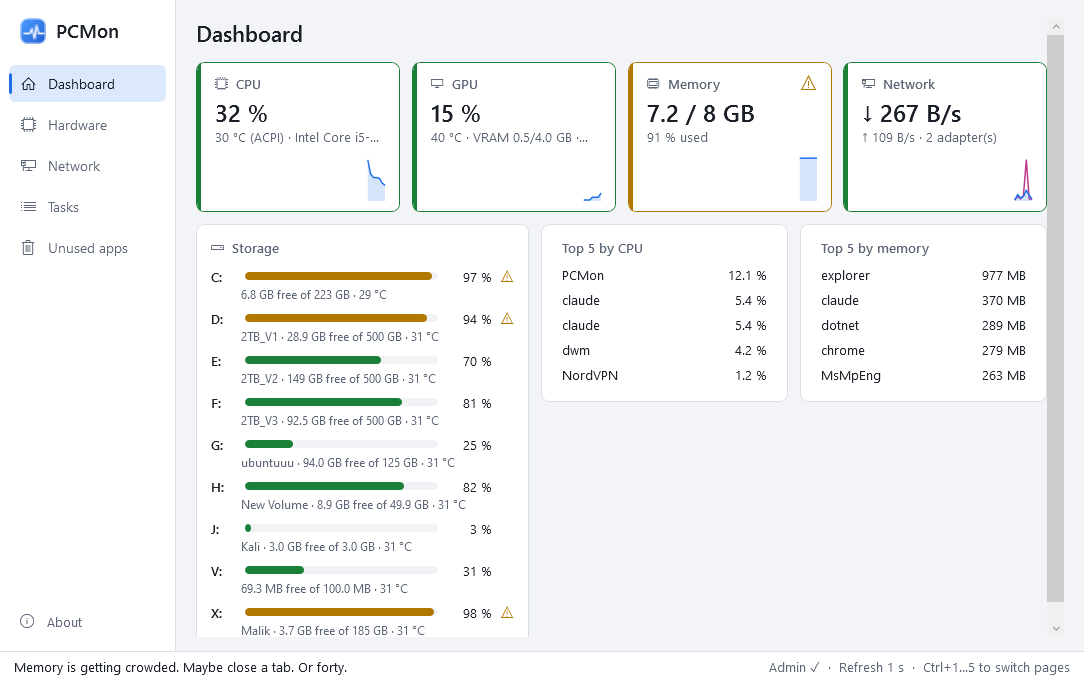
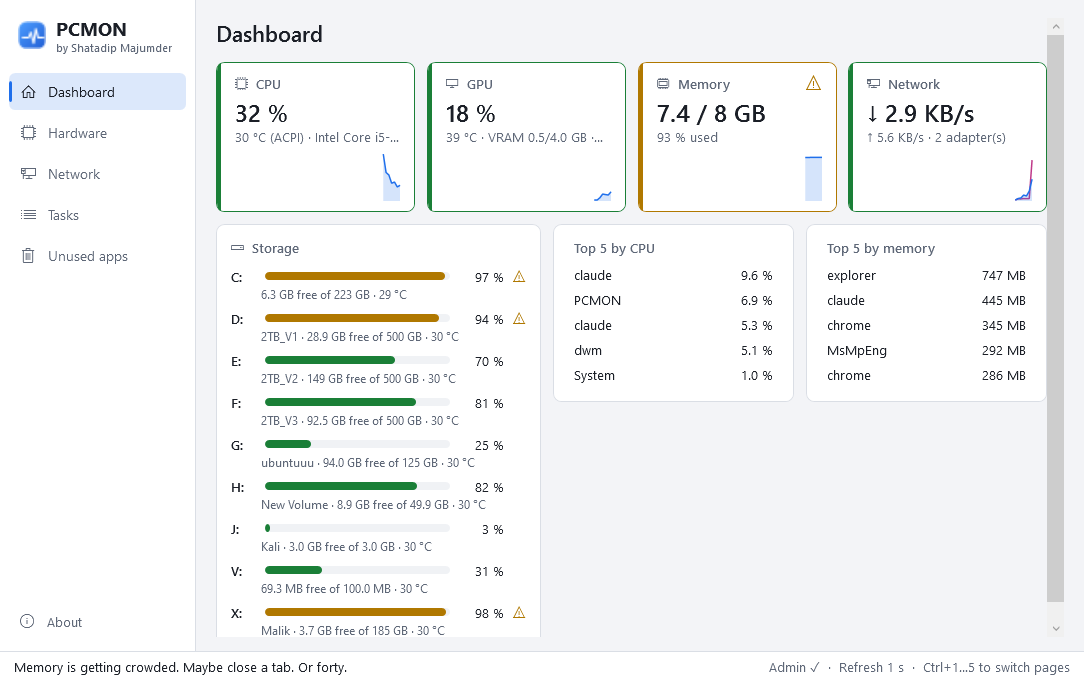
Rebrand to "PCMON by Shatadip Majumder" (v1.0.2)
- Window title, sidebar logo with byline, About box and dialog titles
- Exe renamed to PCMON.exe; file description "PCMON by Shatadip Majumder"
- README, SRS, CI workflow and screenshots updated
- Code namespaces, repo name and %LOCALAPPDATA%\PCMon settings folder unchanged

diff --git a/src/PCMon/MainWindow.xaml b/src/PCMon/MainWindow.xaml
@@ -3,7 +3,8 @@
         xmlns:x="http://schemas.microsoft.com/winfx/2006/xaml"
         xmlns:vm="clr-namespace:PCMon.ViewModels"
         xmlns:v="clr-namespace:PCMon.Views"
-        Title="PCMon" Icon="Assets/pcmon.ico"
+        xmlns:core="clr-namespace:PCMon.Core"
+        Title="{x:Static core:Strings.Brand}" Icon="Assets/pcmon.ico"
         Width="1100" Height="720" MinWidth="900" MinHeight="600"
         WindowStartupLocation="CenterScreen"
         Background="{DynamicResource BgBrush}" Foreground="{DynamicResource TextBrush}"
@@ -39,12 +40,17 @@
         </Border>
 
         <!-- Nav rail -->
-        <Border DockPanel.Dock="Left" Width="176" Background="{DynamicResource SurfaceBrush}"
+        <Border DockPanel.Dock="Left" Width="196" Background="{DynamicResource SurfaceBrush}"
                 BorderBrush="{DynamicResource LineBrush}" BorderThickness="0,0,1,0">
             <DockPanel>
-                <StackPanel DockPanel.Dock="Top" Orientation="Horizontal" Margin="20,18,0,18">
-                    <Image Source="Assets/pcmon.ico" Width="26" Height="26" />
-                    <TextBlock Text="PCMon" FontSize="19" FontWeight="SemiBold" Margin="10,0,0,0" VerticalAlignment="Center" />
+                <StackPanel DockPanel.Dock="Top" Orientation="Horizontal" Margin="18,16,0,16"
+                            AutomationProperties.Name="{x:Static core:Strings.Brand}">
+                    <Image Source="Assets/pcmon.ico" Width="28" Height="28" VerticalAlignment="Center" />
+                    <StackPanel Margin="10,0,0,0" VerticalAlignment="Center">
+                        <TextBlock Text="{x:Static core:Strings.AppName}" FontSize="19" FontWeight="Bold" />
+                        <TextBlock Text="{Binding Source={x:Static core:Strings.Author}, StringFormat=by {0}}"
+                                   FontSize="11" Foreground="{DynamicResource DimBrush}" />
+                    </StackPanel>
                 </StackPanel>
 
                 <Button DockPanel.Dock="Bottom" Command="{Binding AboutCommand}" Style="{StaticResource RowButton}"

diff --git a/src/PCMon/Views/TasksView.xaml b/src/PCMon/Views/TasksView.xaml
@@ -51,7 +51,7 @@
                             <DataGridTemplateColumn.CellTemplate>
                                 <DataTemplate>
                                     <TextBlock Text="&#xE72E;" Style="{StaticResource Glyph}" Foreground="{DynamicResource DimBrush}"
-                                               ToolTip="Critical system process: PCMon won't end it"
+                                               ToolTip="Critical system process: PCMON won't end it"
                                                Visibility="{Binding IsCritical, Converter={StaticResource BoolToVisibility}}" />
                                 </DataTemplate>
                             </DataGridTemplateColumn.CellTemplate>

diff --git a/src/PCMon/Core/Strings.cs b/src/PCMon/Core/Strings.cs
@@ -6,6 +6,10 @@ namespace PCMon.Core;
 /// </summary>
 public static class Strings
 {
+    public const string AppName = "PCMON";
+    public const string Author = "Shatadip Majumder";
+    public const string Brand = AppName + " by " + Author;
+
     public const string AllGreen = "All systems nominal. Suspiciously nominal.";
     // WPF can't draw colour emoji (newer ones render as boxes), so in-app strings stay emoji-free.
     public const string CpuHot = "CPU is hotter than your takes. Check cooling.";
@@ -39,12 +43,12 @@ public static class Strings
     public const string UnknownUsage = @"Unknown ¯\_(ツ)_/¯";
 
     public const string About =
-        "PCMon v{0}\n\nMade with C#, coffee, and mild thermal anxiety.\n\n" +
+        AppName + " v{0}\nby " + Author + "\n\nMade with C#, coffee, and mild thermal anxiety.\n\n" +
         "Sensors by LibreHardwareMonitor (MPL-2.0).\nhttps://github.com/shatadip/PCMon";
 
     public const string CpuSensorsNeedDriver =
         "CPU temperature, clock and power sensors are unavailable. LibreHardwareMonitor needs the free " +
-        "PawnIO driver (pawnio.eu) to read them. PCMon doesn't install drivers, so it falls back to the " +
+        "PawnIO driver (pawnio.eu) to read them. " + AppName + " doesn't install drivers, so it falls back to the " +
         "ACPI thermal zone where it can.";
 }
 

diff --git a/src/PCMon/ViewModels/PageViewModel.cs b/src/PCMon/ViewModels/PageViewModel.cs
@@ -42,9 +42,9 @@ static class Dialogs
     public static bool Confirm(string message, string title) =>
         Show(message, title, MessageBoxButton.YesNo, MessageBoxImage.Warning) == MessageBoxResult.Yes;
 
-    public static void Info(string message, string title = "PCMon") =>
+    public static void Info(string message, string title = Core.Strings.AppName) =>
         Show(message, title, MessageBoxButton.OK, MessageBoxImage.Information);
 
-    public static void Error(string message, string title = "PCMon") =>
+    public static void Error(string message, string title = Core.Strings.AppName) =>
         Show(message, title, MessageBoxButton.OK, MessageBoxImage.Error);
 }

diff --git a/src/PCMon/ViewModels/MainViewModel.cs b/src/PCMon/ViewModels/MainViewModel.cs
@@ -27,7 +27,7 @@ public sealed class MainViewModel : ObservableObject, IDisposable
         Dashboard.IsActive = true;
 
         AboutCommand = new RelayCommand(() =>
-            Dialogs.Info(string.Format(Strings.About, Version), "About PCMon"));
+            Dialogs.Info(string.Format(Strings.About, Version), "About " + Strings.AppName));
         GoToPageCommand = new RelayCommand<string>(i =>
         {
             if (int.TryParse(i, out var n) && n >= 1 && n <= Pages.Count) CurrentPage = Pages[n - 1];

diff --git a/tests/PCMon.Tests/CoreTests.cs b/tests/PCMon.Tests/CoreTests.cs
@@ -354,6 +354,14 @@ public class StringsTests
     }
 
     [Fact]
+    public void Branding()
+    {
+        Assert.Equal("PCMON by Shatadip Majumder", Strings.Brand);
+        var about = string.Format(Strings.About, "1.0.1");
+        Assert.StartsWith("PCMON v1.0.1\nby Shatadip Majumder", about);
+    }
+
+    [Fact]
     public void InAppStringsAvoidEmojiWpfCannotDraw()
     {
         var all = typeof(Strings).GetFields().Where(f => f.IsLiteral).Select(f => (string)f.GetRawConstantValue()!);

diff --git a/SRS.md b/SRS.md
@@ -1,13 +1,15 @@
-# PCMon — Software Requirements Specification (v1.0)
+# PCMON — Software Requirements Specification (v1.0)
+
+*PCMON by Shatadip Majumder.* Show this byline in the window title, under the sidebar logo, in the About box and in the exe's file description.
 
 > **How to use this doc:** Paste the whole file into your coding agent and say *"Build this."*
 > Every requirement is written as an instruction. **MUST** = required for v1. **SHOULD** = add it if it's cheap.
 
 ---
 
-## 1. What PCMon is
+## 1. What PCMON is
 
-PCMon is a **single portable `.exe`** for Windows 10/11 that puts everything on one dashboard:
+PCMON is a **single portable `.exe`** for Windows 10/11 that puts everything on one dashboard:
 
 - **Hardware**: temperatures, loads, clocks, fans and voltages, like HWMonitor
 - **Network**: live upload and download speed, plus who is connected to what
@@ -28,7 +30,7 @@ There is no installer, no setup wizard, no services, no telemetry and no "Would 
 | Charts | `LiveChartsCore.SkiaSharpView.WPF` (or a hand-drawn `Polyline` sparkline if lighter) |
 | Packaging | One self-contained file, see §7 |
 | Privileges | App manifest `requireAdministrator`, because sensors and Prefetch need it |
-| CPU sensor driver | LHM ≥ 0.9.5 reads CPU temps, clocks and power through the **PawnIO** driver. PCMon never installs it. Without it, PCMon shows a banner and falls back to the ACPI thermal zone (WMI) |
+| CPU sensor driver | LHM ≥ 0.9.5 reads CPU temps, clocks and power through the **PawnIO** driver. PCMON never installs it. Without it, PCMON shows a banner and falls back to the ACPI thermal zone (WMI) |
 
 ## 3. UI layout
 
@@ -79,13 +81,13 @@ One resizable window (default 1100×720, min 900×600). It has a left nav rail w
 
   Show Name, Publisher, Size, Installed On and Last Used.
 - **FR-17 MUST**: By default show only apps unused for **≥ 90 days**. Filter chips offer 30 / 60 / 90 / 180 days and "Show all", and a checkbox hides apps with unknown usage.
-- **FR-18 MUST**: Each row has a checkbox, and there is a **"Uninstall selected"** button. PCMon runs each app's **own** `UninstallString`, one at a time, and waits for each to exit. It never deletes files or registry keys itself and never does silent mass uninstalls.
+- **FR-18 MUST**: Each row has a checkbox, and there is a **"Uninstall selected"** button. PCMON runs each app's **own** `UninstallString`, one at a time, and waits for each to exit. It never deletes files or registry keys itself and never does silent mass uninstalls.
 - **FR-19 MUST**: Always show the confirmation dialog first, listing the selected apps. After the uninstallers finish, refresh the list.
 
 ## 5. Non-functional requirements
 - **NFR-1 Footprint**: Idle CPU use is ≤ 2 % on a 4-core machine at a 1 s refresh. RAM use is ≤ 200 MB. Cold start is ≤ 3 s.
-- **NFR-2 Portable**: No installer and no services. The only file PCMon writes is `%LOCALAPPDATA%\PCMon\settings.json`, which stores window size, theme and the unused-days threshold. Deleting the exe removes the app.
-- **NFR-3 Privacy**: PCMon makes **zero** outbound network calls. No telemetry, no update checks and no "anonymous usage data".
+- **NFR-2 Portable**: No installer and no services. The only file PCMON writes is `%LOCALAPPDATA%\PCMon\settings.json`, which stores window size, theme and the unused-days threshold. Deleting the exe removes the app.
+- **NFR-3 Privacy**: PCMON makes **zero** outbound network calls. No telemetry, no update checks and no "anonymous usage data".
 - **NFR-4 Robustness**: Wrap every sensor, WMI and registry read in try/catch. Log errors to `%LOCALAPPDATA%\PCMon\pcmon.log`, rolling at 1 MB. The UI never shows a raw exception.
 - **NFR-5 Compatibility**: Windows 10 22H2+ and Windows 11, x64. It must run on machines without a dedicated GPU, in which case the GPU tile shows "Integrated / N/A".
 - **NFR-6 Accessibility**: The app is fully keyboard navigable, and colour is never the only signal. Every amber or red tile also shows an icon.
@@ -115,10 +117,10 @@ Elsewhere in the app:
 | No unused apps | "No unused apps found. You use everything? Respect." |
 | Uninstall confirm | "Uninstall {n} app(s)? They won't be missed. Probably." |
 | Sensor unavailable | "This sensor is shy." (shown as a tooltip on `—`) |
-| About box | "PCMon v1.0 — Made with C#, coffee, and mild thermal anxiety." |
+| About box | "PCMON v1.0 by Shatadip Majumder — Made with C#, coffee, and mild thermal anxiety." |
 
 ## 7. Build and deliverable
-- **MUST** produce exactly **one file**: `PCMon.exe`. It is self-contained, so the user needs no .NET install.
+- **MUST** produce exactly **one file**: `PCMON.exe`. It is self-contained, so the user needs no .NET install.
   ```
   dotnet publish src/PCMon -c Release -r win-x64 --self-contained true ^
     -p:PublishSingleFile=true -p:IncludeNativeLibrariesForSelfExtract=true ^
@@ -127,18 +129,18 @@ Elsewhere in the app:
   (No trimming. WPF doesn't support it.)
 - **MUST** embed an app icon, a version number and a `requireAdministrator` manifest.
 - **MUST** use this repo layout: `src/PCMon/` (app) and `README.md`, which has a screenshot, a download link and a "Why does it need admin?" section.
-- **SHOULD** add a GitHub Actions workflow that builds `PCMon.exe` when a `v*` tag is pushed and attaches it to a GitHub Release.
+- **SHOULD** add a GitHub Actions workflow that builds `PCMON.exe` when a `v*` tag is pushed and attaches it to a GitHub Release.
 
 ## 8. Out of scope (v1)
-Installer or MSI, auto-update, fan control or overclocking, starting and stopping services, per-process bandwidth, alerts and notifications, CSV export, and a tray icon. *PCMon watches. It does not tinker.*
+Installer or MSI, auto-update, fan control or overclocking, starting and stopping services, per-process bandwidth, alerts and notifications, CSV export, and a tray icon. *PCMON watches. It does not tinker.*
 
 ## 9. Acceptance checklist
-- [ ] Double-click `PCMon.exe` on a clean Win 11 VM. After the UAC prompt, the dashboard loads in ≤ 3 s.
+- [ ] Double-click `PCMON.exe` on a clean Win 11 VM. After the UAC prompt, the dashboard loads in ≤ 3 s.
 - [ ] CPU temp, load and fan values match HWMonitor within ±2 units.
 - [ ] Downloading a large file shows ↓ speed within ±10 % of Task Manager.
 - [ ] A frozen app shows **Not Responding**, and End Task closes it after confirmation.
 - [ ] Trying to kill `lsass` is blocked with the joke message.
 - [ ] Scheduled Tasks shows the correct Running / Ready / Disabled state.
 - [ ] Unused Apps lists an app unopened for 90+ days. Uninstall launches that app's own uninstaller, and the list refreshes afterwards.
-- [ ] Wireshark shows no outbound traffic from PCMon.
+- [ ] Wireshark shows no outbound traffic from PCMON.
 - [ ] Deleting the exe and the `%LOCALAPPDATA%\PCMon` folder leaves no trace.

diff --git a/README.md b/README.md
@@ -1,8 +1,10 @@
-# PCMon 🖥🩺
+# PCMON 🖥🩺
+
+*by Shatadip Majumder*
 
 **Your PC's vital signs, minus the hospital bill.**
 
-PCMon is a small, portable Windows dashboard. It shows:
+PCMON is a small, portable Windows dashboard. It shows:
 
 - hardware sensors (like HWMonitor)
 - live network speed and connections
@@ -15,7 +17,7 @@ There's one `.exe` and no installer. Double-click it and it runs.
 
 ## Download
 
-Get **`PCMon.exe`** from the [latest release](https://github.com/shatadip/PCMon/releases/latest). It runs on Windows 10 22H2+ and Windows 11, x64. It's self-contained, so you don't need to install .NET.
+Get **`PCMON.exe`** from the [latest release](https://github.com/shatadip/PCMon/releases/latest). It runs on Windows 10 22H2+ and Windows 11, x64. It's self-contained, so you don't need to install .NET.
 
 Windows will ask for admin rights when it starts (see [Why does it need admin?](#why-does-it-need-admin)).
 
@@ -27,7 +29,7 @@ Windows will ask for admin rights when it starts (see [Why does it need admin?](
 | **Hardware** | An HWMonitor-style tree (Device → Sensor type → Sensor) with **Current / Min / Max** values and a *Reset Min/Max* button. |
 | **Network** | Live and total ↓/↑ per adapter, a 2-minute traffic chart, and the TCP connections table with the owning process. |
 | **Tasks** | **Processes**: Running, **Not Responding** or Suspended, plus CPU, memory and path. End Task is on right-click, the button, or the Delete key. **Scheduled Tasks**: Running / Ready / Disabled, last and next run, last result. |
-| **Unused apps** | Installed apps you haven't opened in 30/60/90/180 days. Tick some and click *Uninstall selected*. PCMon asks first, then runs each app's **own** uninstaller, one at a time. |
+| **Unused apps** | Installed apps you haven't opened in 30/60/90/180 days. Tick some and click *Uninstall selected*. PCMON asks first, then runs each app's **own** uninstaller, one at a time. |
 
 | | |
 |---|---|
@@ -42,18 +44,18 @@ It follows your Windows theme. Here is light mode:
 
 ## Why does it need admin?
 
-Hardware sensors and the Windows Prefetch data used for "last used" estimates both need elevated access. PCMon only **reads** them.
+Hardware sensors and the Windows Prefetch data used for "last used" estimates both need elevated access. PCMON only **reads** them.
 
-PCMon does **not**:
+PCMON does **not**:
 - make any network calls (no telemetry, no update checks)
 - install services or drivers
 - write anything except `%LOCALAPPDATA%\PCMon\settings.json` and a small rolling `pcmon.log`
 
-To remove PCMon, delete the exe and that folder.
+To remove PCMON, delete the exe and that folder.
 
 ## Good to know
 
-- **CPU temperature.** Reading Intel/AMD CPU temperatures, clocks and power uses LibreHardwareMonitor's [PawnIO](https://pawnio.eu) driver. If PawnIO isn't installed, PCMon says so on the Hardware page and falls back to the ACPI thermal zone, marked "(ACPI)" on the dashboard. PCMon never installs drivers itself. GPU, disk, memory and load sensors work without it.
+- **CPU temperature.** Reading Intel/AMD CPU temperatures, clocks and power uses LibreHardwareMonitor's [PawnIO](https://pawnio.eu) driver. If PawnIO isn't installed, PCMON says so on the Hardware page and falls back to the ACPI thermal zone, marked "(ACPI)" on the dashboard. PCMON never installs drivers itself. GPU, disk, memory and load sensors work without it.
 - **"Last used" is an estimate.** It comes from Windows Prefetch and Explorer's UserAssist records. If neither has a record for an app, it shows `Unknown ¯\_(ツ)_/¯`. You can hide those with the checkbox.
 - **Critical processes are protected.** `csrss`, `lsass`, `wininit`, `smss`, `services` and `System` show a lock and can't be ended. *"Nice try. Killing lsass would blue-screen us both."*
 
@@ -69,14 +71,14 @@ dotnet test PCMon.sln -c Release
 dotnet publish src/PCMon -c Release -r win-x64 --self-contained true -p:PublishSingleFile=true -p:IncludeNativeLibrariesForSelfExtract=true -p:EnableCompressionInSingleFile=true -p:DebugType=none -o publish
 ```
 
-This gives you `publish/PCMon.exe`, about 65 MB.
+This gives you `publish/PCMON.exe`, about 65 MB.
 
 Two command-line switches help with checking a build:
 
-- `PCMon.exe --selftest report.json` samples every data source once without opening a window. It writes a JSON report with per-source timings and exits non-zero if something is broken. CI runs this on every build.
-- `PCMon.exe --screenshot <dir> [--theme dark|light]` visits each page, saves PNGs and exits. That's how the screenshots above were made.
+- `PCMON.exe --selftest report.json` samples every data source once without opening a window. It writes a JSON report with per-source timings and exits non-zero if something is broken. CI runs this on every build.
+- `PCMON.exe --screenshot <dir> [--theme dark|light]` visits each page, saves PNGs and exits. That's how the screenshots above were made.
 
-Pushing a `v*` tag builds, tests, self-tests and attaches `PCMon.exe` to a GitHub Release.
+Pushing a `v*` tag builds, tests, self-tests and attaches `PCMON.exe` to a GitHub Release.
 
 ## Project layout
 
@@ -92,4 +94,4 @@ SRS.md               the spec this was built from
 
 ## Credits
 
-Sensors by [LibreHardwareMonitor](https://github.com/LibreHardwareMonitor/LibreHardwareMonitor) (MPL-2.0). Made with C#, coffee, and mild thermal anxiety.
+**PCMON by Shatadip Majumder.** Sensors by [LibreHardwareMonitor](https://github.com/LibreHardwareMonitor/LibreHardwareMonitor) (MPL-2.0). Made with C#, coffee, and mild thermal anxiety.
